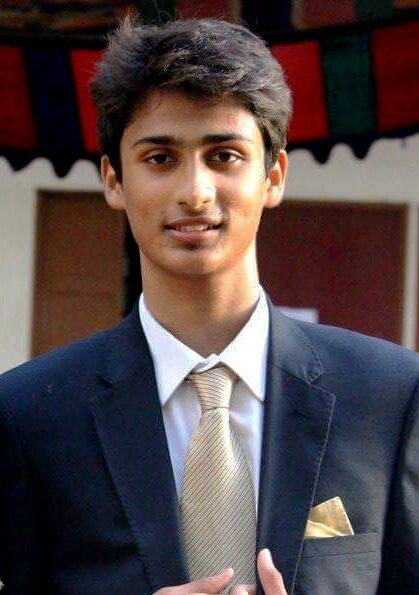
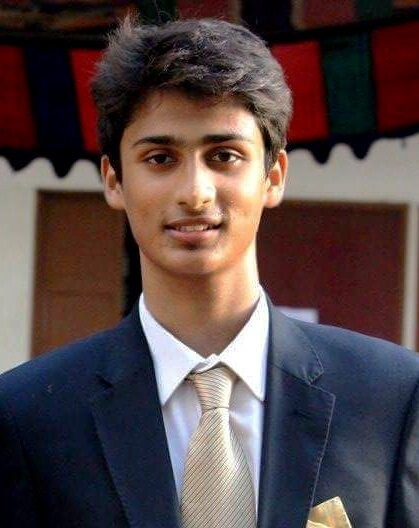
secpics

diff --git a/src/components/Sec.jsx b/src/components/Sec.jsx
@@ -236,7 +236,7 @@ class Sec extends Component {
                     {({ isInView }) =>
                         <RevealP hide={!isInView}>
                 <div className="col-xs-6" style={{textAlign:"center"}}>
-                <Image src="images/oc/hospitality/4.jpg" className="secpic2"/><br></br><br></br>Shwetha Madhavan<br></br><br></br>
+                <Image src="images/oc/hospitality/4.jpg" className="secpic5"/><br></br><br></br>Shwetha Madhavan<br></br><br></br>
                 </div>
                 </RevealP>
                     }
@@ -359,7 +359,7 @@ class Sec extends Component {
                     {({ isInView }) =>
                         <RevealP hide={!isInView}>
                 <div className="col-xs-6" style={{textAlign:"center"}}>
-                <Image src="images/oc/tech design/me.jpg" className="secpic2" onClick={() => this.showmeme()}/><br></br><br></br>Srinath V<br></br><br></br>
+                <Image src="images/oc/tech design/me.jpg" className="secpicmexs" onClick={() => this.showmeme()}/><br></br><br></br>Srinath V<br></br><br></br>
                 </div>
                 </RevealP>
                     }
@@ -735,7 +735,7 @@ class Sec extends Component {
                     {({ isInView }) =>
                         <RevealP hide={!isInView}>
                 <div className="col-lg-4 col-lg-offset-1" style={{textAlign:"center"}}>
-                <Image src="images/oc/tech design/me.jpg" className="secpic3" onClick={() => this.showmeme()} /><br></br><br></br>Srinath V<br></br><br></br>
+                <Image src="images/oc/tech design/me.jpg" className="secpicmelg" onClick={() => this.showmeme()} /><br></br><br></br>Srinath V<br></br><br></br>
                 </div>
                 </RevealP>
                     }

diff --git a/src/components/Sec.css b/src/components/Sec.css
@@ -24,3 +24,24 @@
     position: relative;
     
 }
+
+.secpic5 {
+    width: 115px;
+    border: thick solid black;
+    height: 130px;
+    position: relative;
+}
+
+.secpicmelg{
+    width: 145px;
+    border: thick solid black;
+    height: 225px;
+    position: relative;
+}
+
+.secpicmexs{
+    width: 84px;
+    border: thick solid black;
+    height: 130px;
+    position: relative;
+}
